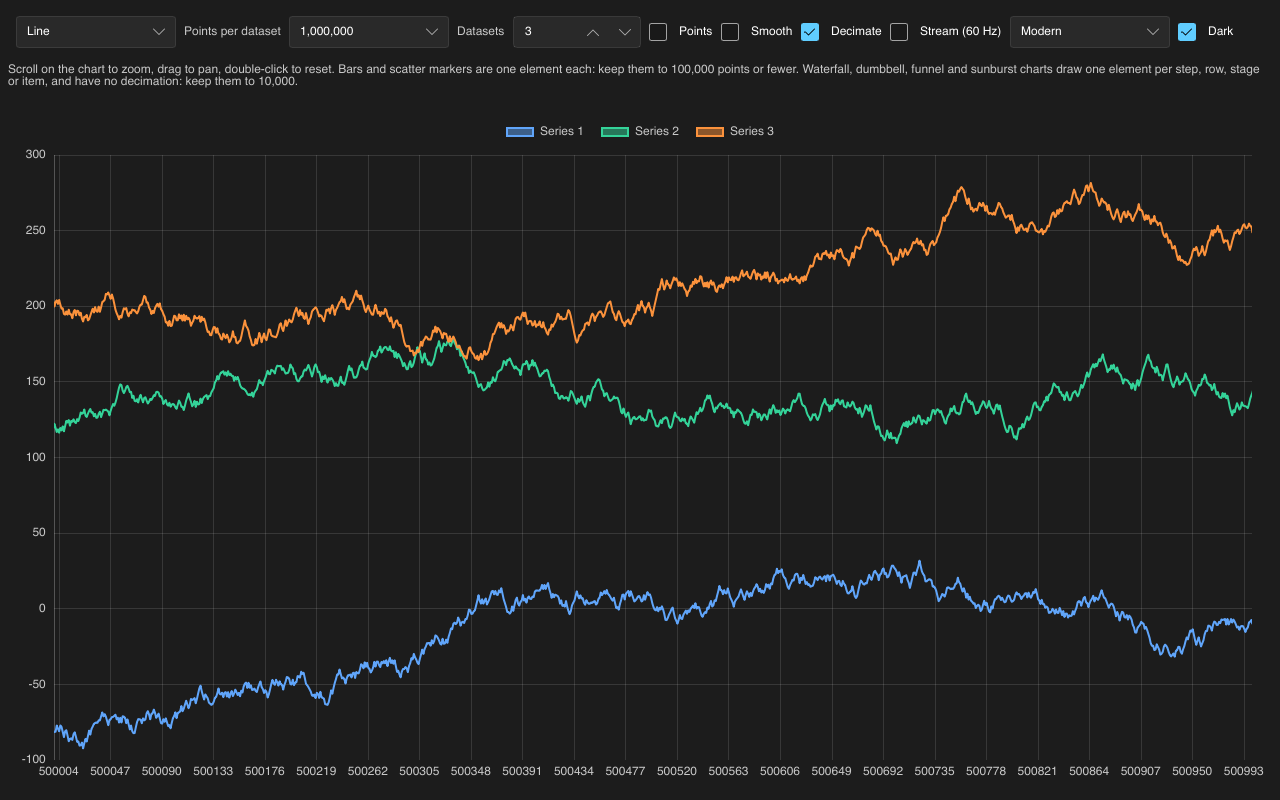
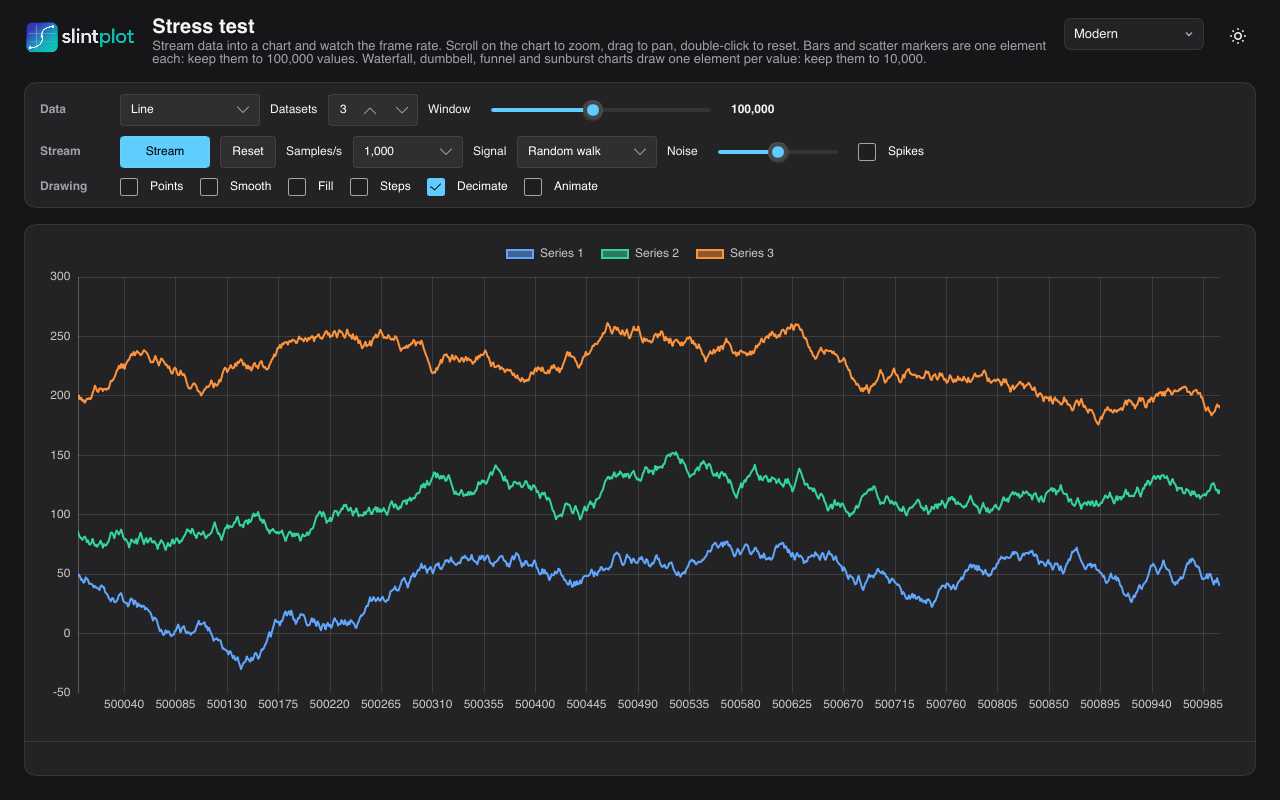
Early bird: half price for the first two years, as a Paddle discount can apply it; stress test screenshot in the new design

diff --git a/docs/index.html b/docs/index.html
@@ -1930,8 +1930,8 @@ You need a commercial license when you sell, ship or deliver a closed-source pro
 A commercial license lets you use it in closed-source software you sell, ship or deliver to clients.
 Licenses are per developer, per year, and cover any number of your products.</p>
 <div class="early-bird" id="early-bird">
-  <p><strong>Early bird: 50% off through 2028.</strong> Buy by 31 December 2027, and you pay the
-  early-bird price until the end of 2028, renewals included. Early adopters also help shape SlintPlot:
+  <p><strong>Early bird: half price for your first two years.</strong> Buy by 31 December 2027, and your
+  first year and your first renewal are 50% off. Early adopters also help shape SlintPlot:
   your feature requests and feedback come first when we plan what to build next.</p>
   <div class="countdown" role="timer" aria-label="Time left of the early-bird offer">
     <div><span data-unit="days">–</span><small>days</small></div>
@@ -1945,7 +1945,7 @@ Licenses are per developer, per year, and cover any number of your products.</p>
     <h3>Indie</h3>
     <p class="who">Solo developers and companies with under €250,000 in annual revenue</p>
     <div class="price"><span class="was bird-only">€199</span><span class="now">€99</span> <small>per developer / year</small></div>
-    <span class="bird bird-only">€199 per developer / year from 2029</span>
+    <span class="bird bird-only">€199 per developer / year after two years</span>
     <ul>
       <li>Closed-source apps and devices</li>
       <li>Any number of products</li>
@@ -1959,7 +1959,7 @@ Licenses are per developer, per year, and cover any number of your products.</p>
     <h3>Business</h3>
     <p class="who">For every other company</p>
     <div class="price"><span class="was bird-only">€499</span><span class="now">€249</span> <small>per developer / year</small></div>
-    <span class="bird bird-only">€499 per developer / year from 2029</span>
+    <span class="bird bird-only">€499 per developer / year after two years</span>
     <ul>
       <li>Everything in Indie</li>
       <li>Priority email support</li>
@@ -2078,8 +2078,9 @@ A developer is anyone who writes code that uses SlintPlot. Your application also
     // The early-bird discount code, applied until the end of the offer.
     earlyBirdCode: "EARLYBIRD",
   };
-  // The offer ends at midnight UTC after 31 December 2027; the discount
-  // code in Paddle should expire at the same time.
+  // The offer ends at midnight UTC after 31 December 2027. In Paddle, the
+  // discount code is 50%, recurring for one renewal (two payments in all),
+  // and expires at the same time.
   const earlyBirdEnd = new Date("2028-01-01T00:00:00Z");
   const earlyBird = new Date() < earlyBirdEnd;
   if (earlyBird) {

diff --git a/README.md b/README.md
@@ -678,7 +678,7 @@ SlintPlot is available under your choice of three licenses:
 - **A commercial license**: for commercial use without the GPLv3's
   conditions, such as in closed-source software you sell or ship. Per
   developer, per year, from €199; bought by 31 December 2027, half price
-  through 2028: see [Pricing](https://slintplot.dev/#pricing).
+  for the first two years: see [Pricing](https://slintplot.dev/#pricing).
 
 See [LICENSE.md](LICENSE.md) and [COMMERCIAL.md](COMMERCIAL.md) for the
 details. Your application also needs a suitable

diff --git a/COMMERCIAL.md b/COMMERCIAL.md
@@ -43,7 +43,8 @@ products. Prices exclude VAT.
 | Enterprise | Every developer in the company, custom terms | from €2,500 per year |
 
 **Early bird:** buy by 31 December 2027 and pay half price (€99 Indie, €249
-Business per developer per year) until the end of 2028, renewals included.
+Business per developer per year) for your first two years: the first year
+and the first renewal.
 Early adopters also help shape SlintPlot: their feature requests and feedback
 come first when we plan what to build next.
 
